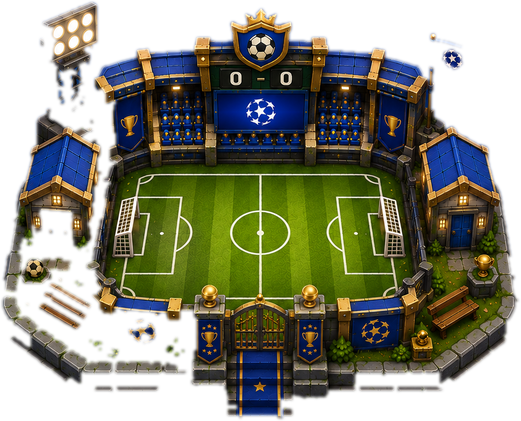
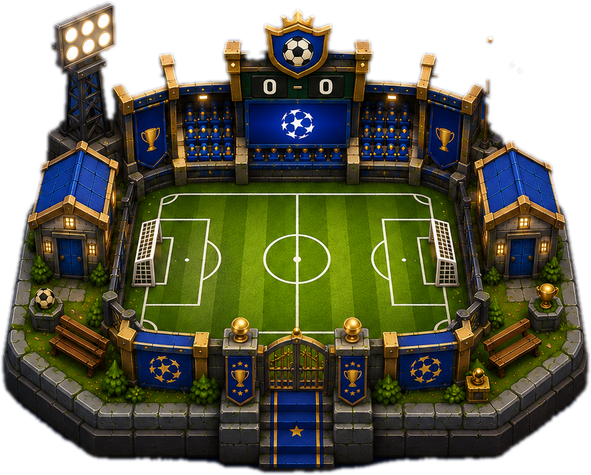
Fix scroll lock + match layout shift (keyboard-dismiss backdrop) + re-cut sampiyonlar
- The keyboard-dismiss Pressable wrapped Screen's children, which broke ScrollView
  scrolling on some pages AND shifted centered match content (ready/team-select) up.
  Moved it to an absoluteFill backdrop BEHIND the content — no wrapping, no layout
  change, no scroll interception; empty-area taps still dismiss (+ ScrollViews use
  keyboardShouldPersistTaps).
- Şampiyonlar arena: re-cut with a blue-dominance flood (b-g≥20) so the front stones
  stay and the diamond backdrop is fully removed (tol-based flood couldn't do both).

diff --git a/app/src/screens.tsx b/app/src/screens.tsx
@@ -378,11 +378,12 @@ function Screen({ children }: { children: ReactNode; noPitch?: boolean }) {
       behavior={Platform.OS === 'ios' ? 'padding' : undefined}
       keyboardVerticalOffset={Platform.OS === 'ios' ? 44 : 0}
     >
-      {/* Tapping any empty area dismisses the keyboard (taps on inputs/buttons still
-          reach them — Pressable only fires for taps no child handled). */}
-      <Pressable style={{ flex: 1 }} onPress={() => Keyboard.dismiss()} accessible={false}>
-        {children}
-      </Pressable>
+      {/* Keyboard dismiss: a backdrop Pressable BEHIND the content. It never wraps the
+          children (so no layout shift) and sits under the ScrollViews (so it never
+          intercepts scroll); tapping empty background area still dismisses. Scroll-area
+          taps are handled by each ScrollView's keyboardShouldPersistTaps="handled". */}
+      <Pressable style={StyleSheet.absoluteFill} onPress={() => Keyboard.dismiss()} accessible={false} />
+      {children}
     </KeyboardAvoidingView>
   );
 }
